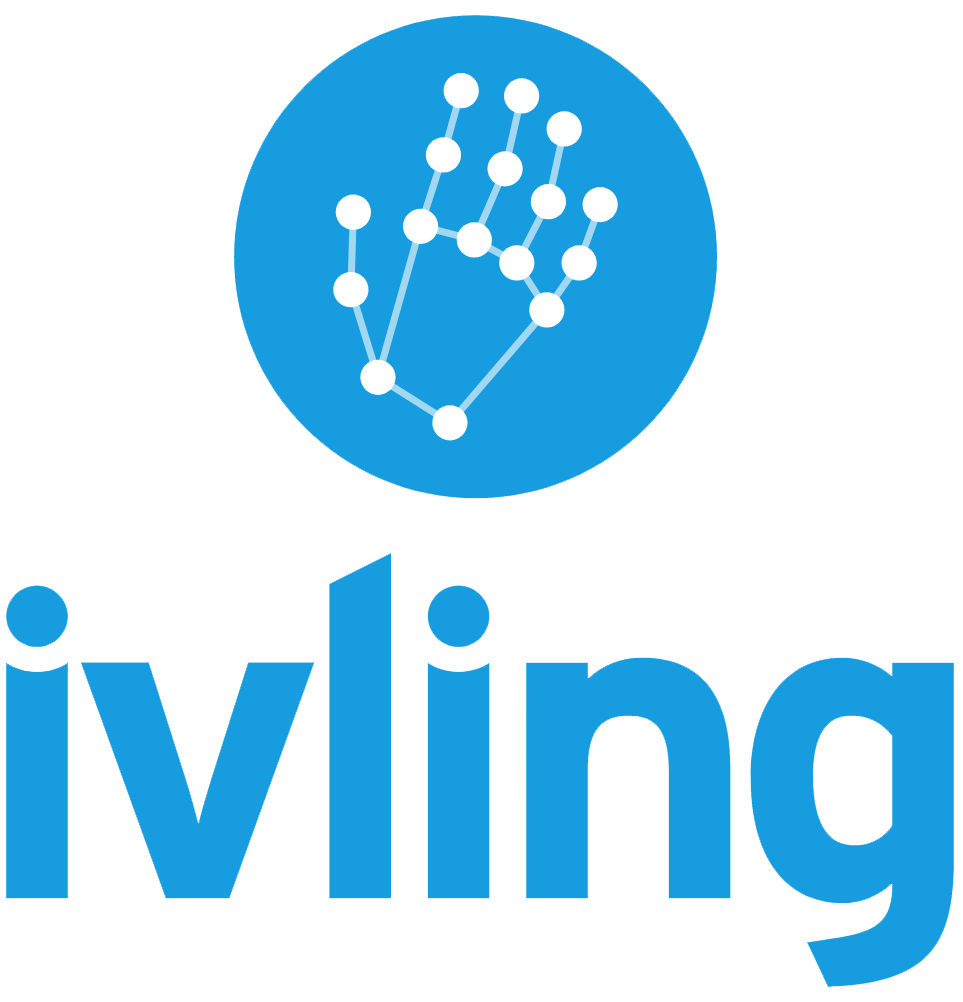
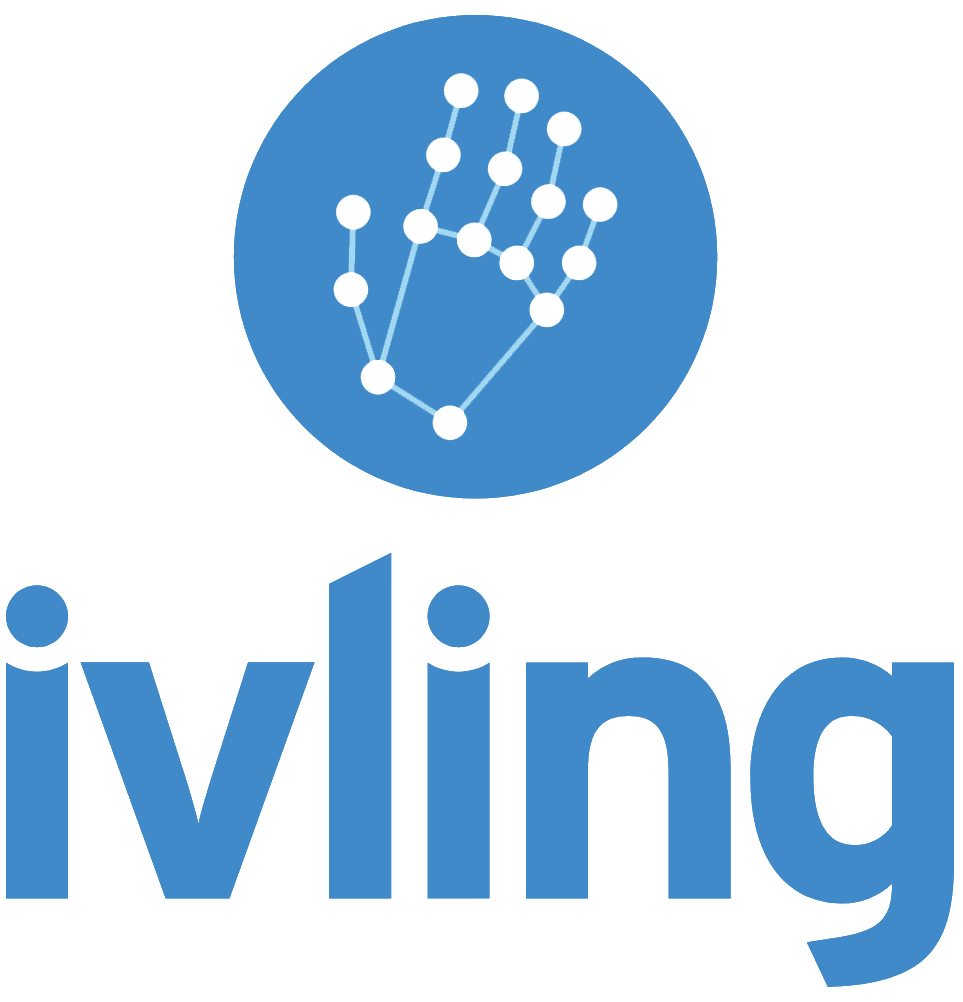
feat:css-update

diff --git a/src/pages/IvlingInterface/IvlingInterface_01.js b/src/pages/IvlingInterface/IvlingInterface_01.js
@@ -1,6 +1,4 @@
-// IvlingInterface.js
 import React, { useState, useRef, useEffect } from "react";
-import { useInputManager } from "./useInputManager"; // Certifique-se de que o caminho está correto
 import "./IvlingInterface.css";
 
 const IvlingInterface = () => {
@@ -8,7 +6,6 @@ const IvlingInterface = () => {
   const [recordCount, setRecordCount] = useState(0);
   const [recordedVideos, setRecordedVideos] = useState([]);
   const [recording, setRecording] = useState(false);
-  const [selectedThumbnails, setSelectedThumbnails] = useState([]);
   const videoRef = useRef();
 
   let mediaRecorder;
@@ -73,23 +70,7 @@ const IvlingInterface = () => {
     setRecordedVideos([]);
   };
 
-  const handleThumbnailCheckboxChange = (index) => {
-    setSelectedThumbnails((prevSelected) => {
-      const updatedSelection = [...prevSelected];
-      updatedSelection[index] = !updatedSelection[index];
-      return updatedSelection;
-    });
-  };
-
-  const handleDeleteSelected = () => {
-    const filteredVideos = recordedVideos.filter((_, index) => !selectedThumbnails[index]);
-    setRecordedVideos(filteredVideos);
-    setSelectedThumbnails([]);
-  };
-
-  const handleUploadSelectedToCloud = () => {
-    // Implementar lógica para enviar os vídeos selecionados para a nuvem
-  };
+  const handleUploadToCloud = () => {};
 
   return (
     <div className="ivling-interface">
@@ -101,14 +82,12 @@ const IvlingInterface = () => {
             <option value="word2">Palavra 2</option>
           </select>
           <p>Contagem de Gravação: {recordCount}</p>
-          <div className="buttons-container">
-            <button onClick={toggleRecording}>
-              {recording ? "Parar Gravação" : "Gravar"}
-            </button>
-            <button>Play</button>
-            <button onClick={handleStop}>Aprovar</button>
-            <button onClick={handleDeleteVideo}>Eliminar</button>
-          </div>
+          <button onClick={toggleRecording}>
+            {recording ? "Parar Gravação" : "Gravar"}
+          </button>
+          <button>Play</button>
+          <button onClick={handleStop}>Aprovar</button>
+          <button onClick={handleDeleteVideo}>Eliminar</button>
         </div>
       </div>
       <div className="right-panel-wrapper">
@@ -116,19 +95,14 @@ const IvlingInterface = () => {
           {recordedVideos.map((video, index) => (
             <div key={index} className="video-thumbnail">
               <video src={video} controls width="360" height="270" />
-              <div className="thumbnail-actions">
-                <input
-                  type="checkbox"
-                  checked={selectedThumbnails[index] || false}
-                  onChange={() => handleThumbnailCheckboxChange(index)}
-                />
-                <button onClick={() => handleDeleteSelected(index)}>Eliminar</button>
-                <button onClick={() => handleUploadSelectedToCloud(index)}>
-                  Carregar na Cloud
-                </button>
-              </div>
+              <button className="delete-button" onClick={handleDeleteVideo}>
+                Eliminar
+              </button>
             </div>
           ))}
+          <button className="upload-button" onClick={handleUploadToCloud}>
+            Carregar na Cloud
+          </button>
         </div>
       </div>
     </div>

diff --git a/src/pages/IvlingInterface/useInputManager.js b/src/pages/IvlingInterface/useInputManager.js
@@ -1,0 +1,69 @@
+// useInputManager.js
+import { useCallback, useEffect, useState } from 'react';
+
+const useInputManager = ({ changeWebcam, changeMic, localWebcamOn }) => {
+  const [selectedDevices, selectDevices] = useState({
+    audiooutput: undefined,
+    audioinput: undefined,
+    videoinput: undefined,
+  });
+  const [devices, setDevices] = useState([]);
+
+  const handleDevices = useCallback(
+    (mediaDevices) => {
+      const devices = [];
+
+      mediaDevices.forEach((device) => {
+        if (
+          devices.filter(
+            (e) => e.groupId === device.groupId && e.kind === device.kind,
+          ).length
+        ) {
+          return;
+        }
+        devices.push(device);
+      });
+
+      setDevices(devices);
+
+      const defaultMic =
+        devices.filter(
+          (e) => e.kind === 'audioinput' && e.deviceId === 'default',
+        )[0] ??
+        devices.filter((e) => e.kind === 'audioinput')[0] ??
+        undefined;
+      const defaultAudio =
+        devices.filter(
+          (e) => e.kind === 'audiooutput' && e.deviceId === 'default',
+        )[0] ??
+        devices.filter((e) => e.kind === 'audiooutput')[0] ??
+        undefined;
+      const defaultWebcam =
+        devices.filter(
+          (e) => e.kind === 'videoinput' && e.deviceId === 'default',
+        )[0] ??
+        devices.filter((e) => e.kind === 'videoinput')[0] ??
+        undefined;
+
+      selectDevices({
+        audiooutput: defaultAudio,
+        audioinput: defaultMic,
+        videoinput: defaultWebcam,
+      });
+    },
+    []
+  );
+
+  useEffect(() => {
+    navigator.mediaDevices.enumerateDevices().then(handleDevices);
+  }, [handleDevices]);
+
+  useEffect(() => {
+    changeMic?.(selectedDevices.audioinput?.deviceId);
+    localWebcamOn && changeWebcam?.(selectedDevices.videoinput?.deviceId);
+  }, [changeMic, changeWebcam, selectedDevices]);
+
+  return { selectedDevices, selectDevices, devices, setDevices };
+};
+
+export { useInputManager };

diff --git a/src/assets/css/Styles.css b/src/assets/css/Styles.css
@@ -59,7 +59,7 @@ input[type="password"] {
 }
 
 .button-container-login-register {
-  background-color: #179cdf;
+  background-color: #418ACA;
   color: #fff;
   padding: 10px;
   border-radius: 25px;
@@ -78,7 +78,7 @@ input[type="password"] {
 }
 
 .button-container-back {
-  color: #179cdf;
+  color: #418ACA;
   padding: 10px;
   text-align: center;
   text-decoration: none;
@@ -87,7 +87,7 @@ input[type="password"] {
   margin: 4px 2px;
   cursor: pointer;
   font-weight: bold;
-  border: 1px solid #179cdf;
+  border: 1px solid #418ACA;
   width: 250px;
   border-radius: 25px;
 }

diff --git a/src/pages/TermsOfUsePage/TermsOfUsePage.css b/src/pages/TermsOfUsePage/TermsOfUsePage.css
@@ -25,7 +25,7 @@
 .button-container {
   margin-left: 810px;
   margin-bottom: 50px;
-  background-color: #179cdf;
+  background-color: #418ACA;
   color: #fff;
   padding: 10px;
   border: none;
